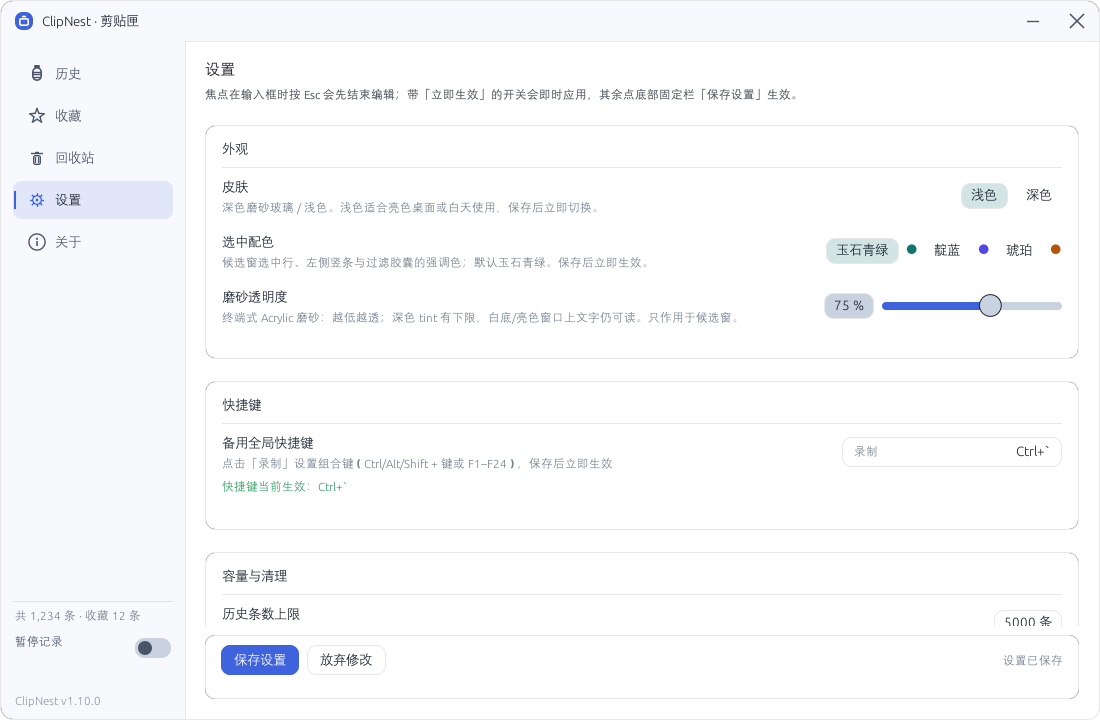
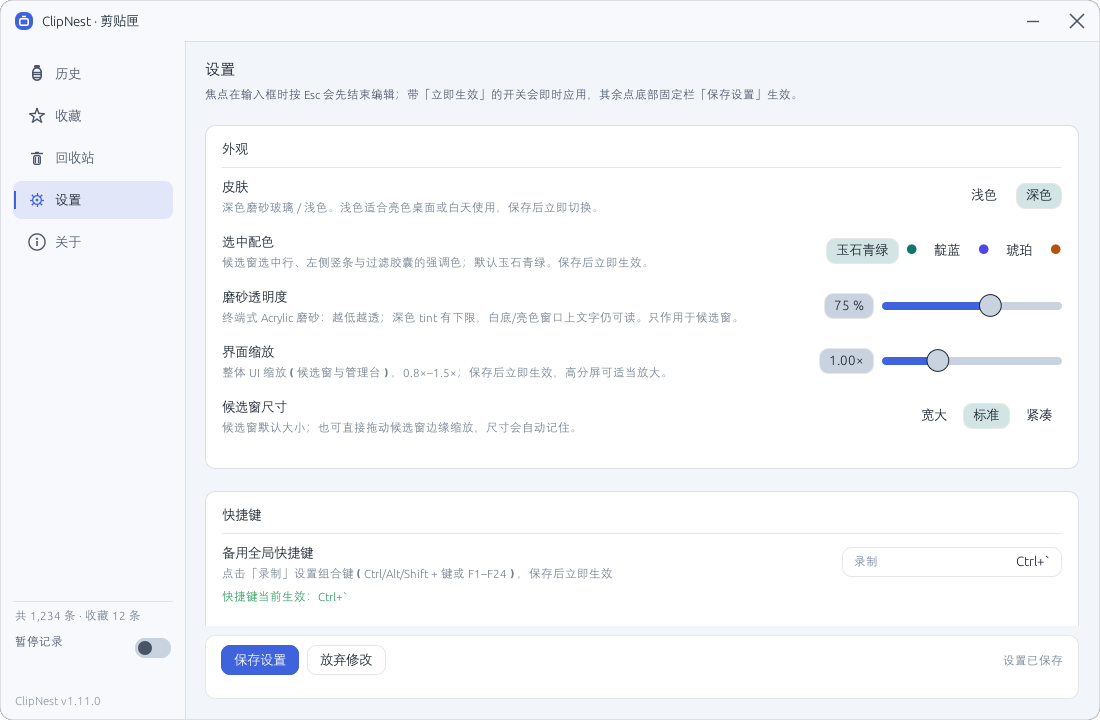
release: v1.11.0 第二批体验效率（富文本/搜索/排序/文件操作/时间语义/缩放）

diff --git a/README.md b/README.md
@@ -51,10 +51,12 @@ ClipNest 的目标是**低占用、键盘优先、视觉克制**：
 
 ## 功能
 
-- **采集**：监听系统剪贴板（Ctrl+C / 右键复制 / 截图工具），自动去重、最近置顶，记录来源应用。
-- **候选窗**：全局快捷键呼出；输入即搜（FTS5 trigram，中文子串友好，**命中关键字标红**）；`↑↓` 选择、`Enter` 粘贴、`Ctrl+Enter` 仅复制、`Ctrl+1…9` 快选、`Ctrl+F` 随时聚焦搜索框、`Tab` / `←→` 切过滤（收藏 → 全部 → 文本 → 图片 → 文件，默认全部）、`Ctrl+P` 收藏、`Delete` 移入回收站、`Esc` 关闭。
+- **采集**：监听系统剪贴板（Ctrl+C / 右键复制 / 截图工具），自动去重、最近置顶，记录来源应用；同时保留**富文本 HTML/RTF**，粘贴到 Word/浏览器/邮件时尽量保留链接、加粗、表格等格式，失败自动降级纯文本。
+- **候选窗**：全局快捷键呼出；输入即搜（FTS5 trigram，中文子串友好，**命中关键字标红**）；支持**多关键词**（任一 / 全部）、**来源应用筛选**与**排序**（最近/最早/最大/类型/使用最多）；`↑↓` 选择、`Enter` 粘贴、`Ctrl+Enter` 仅复制、`Ctrl+1…9` 快选、`Ctrl+F` 随时聚焦搜索框、`Tab` / `←→` 切过滤（收藏 → 全部 → 文本 → 图片 → 文件，默认全部）、`Ctrl+P` 收藏、`Delete` 移入回收站、`Esc` 关闭。
 - **自动粘贴**：先恢复呼出前的前台窗口，再模拟 Ctrl+V（可选 Shift+Insert）；目标窗口提权等情况自动降级为"已复制，请手动粘贴"。
-- **管理台**：历史（搜索/分页/详情/多选/批量删除/**导出（另存为）**）、收藏、**回收站**、设置、关于。
+- **管理台**：历史（搜索/排序/分页/详情/多选/批量删除/**导出（另存为）**）、收藏、**回收站**（虚拟化列表，支持翻页）、设置、关于。
+- **文件/图片操作**：文件条目右键可「打开文件 / 所在文件夹 / 复制路径」；图片可「另存为 PNG」，文本可「另存为 TXT」；候选窗与管理台详情均可用。
+- **时间语义与缩放**：时间筛选可切换「最近使用 / 复制时间」；日历支持按年跳转；候选窗可拖拽改变尺寸并记住；设置 → 外观提供 0.8–1.5 倍界面缩放与紧凑/标准/宽大预设。
 - **完整备份 / 恢复**：设置 → 数据 → 「完整备份…」生成单个 `.cnbak` 文件，内含数据库快照、图片/缩略图、收藏文件副本与 manifest 校验和；「从备份恢复…」先预览内容与校验结果，再按内容 hash 合并导入，失败回滚且不会破坏现有数据。换机或迁移请使用完整备份；导出 JSON 仅含文本与元数据。
 - **清空与退出清理**：清空历史默认只清未收藏，勾选「同时清空收藏」需输入确认词；设置 → 数据可选退出时「不清理 / 清空未收藏 / 全部清空」，仅明确退出 ClipNest 时执行，关闭面板或隐藏到托盘不触发。含收藏的清理使用 `secure_delete` + `VACUUM`，降低已删数据在数据库文件中的残留。
 - **隐私默认值**：新装默认忽略 1Password、Bitwarden、KeePass、KeePassXC、LastPass、Dashlane、Enpass、Keeper、RoboForm 等常见密码管理器进程；条目右键/详情可「忽略来源应用」并立即生效；支持临时暂停 15 分钟 / 1 小时 / 直到重启，到期自动恢复。
@@ -237,13 +239,15 @@ clipnest.exe（单进程常驻）
 
 - 仅支持 Windows（10 1809+ / 11），暂不做跨平台；
 - 单进程常驻内存约 57MB Private（v1.2 按用户要求不再做低内存拆分）；
-- 富文本（HTML/RTF）暂不保留格式，只按纯文本处理；
+- 富文本保留 HTML/RTF 常见格式（链接、加粗、表格等），复杂 CSS/脚本/外部资源会被过滤或降级；不做富文本渲染预览；
+- 多文件条目右键/详情操作只作用于第一个文件，暂未做逐文件菜单；
 - 图片/文件在 **完整备份（.cnbak）** 中会内嵌；**导出 JSON** 仍只含文本与元数据，不含二进制；
 - v1.2 起不接管 `Win+V`，系统剪贴板历史保持 Windows 原生行为；
 - 以管理员权限运行的窗口会被 UIPI 拦截模拟按键，此时保留剪贴板内容供手动粘贴。
 
 ## 更新记录
 
+- **v1.11.0**：第二批「体验效率」更新。新增**富文本 HTML/RTF 采集与回写**（浏览器/Word/Excel 复制尽量保留链接、加粗、表格，失败降级纯文本）；搜索支持**多关键词（任一/全部）与来源应用筛选**，可保留上次搜索；新增**排序**（最近/最早/最大/类型/使用最多）；候选窗与管理台新增**文件打开/所在文件夹/复制路径、图片另存为 PNG、文本另存为 TXT**；时间筛选支持**最近使用/复制时间**切换，日历支持按年跳转；候选窗可拖拽缩放并记住尺寸，外观新增 **0.8–1.5 倍界面缩放**；回收站改为虚拟化列表并支持翻页；修复中文输入法组词时按 Esc 误关候选窗。
 - **v1.10.0**：第一批「数据安全」更新。新增单文件**完整备份/恢复**（`.cnbak`，含数据库、图片/缩略图、收藏文件副本与 manifest 校验，恢复前预览、合并导入、失败回滚）；清空历史默认只清未收藏，含收藏需输入确认词，并支持退出时三档自动清理（安全删除）；新装默认忽略 9 个常见密码管理器，条目右键/详情可一键忽略来源应用，支持 15 分钟/1 小时/直到重启的临时暂停；收藏文件副本增加异步状态（保存中/已保存/失败/超限/原文件缺失）与重试；首次启动增加欢迎提示，二次启动提示已有实例并尝试唤起。
 - **v1.9.18**：发布版改为**静态链接 MSVC 运行库**（`target-feature=+crt-static`），单个 `clipnest.exe` 不再依赖 `VCRUNTIME140.dll`，其他 Windows 10/11 x64 电脑复制过去双击即可启动，无需安装 VC++ 运行库。
 - **v1.9.17**：候选窗新增 `Ctrl+F` 聚焦搜索框，搜索框失去焦点后也能一键回到输入；输入框右侧常驻显示 `Ctrl+F` 键帽提示（有内容时显示清除按钮）。

diff --git a/docs/ACCEPTANCE-RESULT.md b/docs/ACCEPTANCE-RESULT.md
@@ -812,3 +812,22 @@
 - `cargo check --all-targets`：零错误。
 - 合并冲突处理：`src/store.rs` 导入、`src/ui.rs` 恢复预览/清空确认/忽略应用、`src/ui/pages/settings.rs` 数据区重复块均已人工核对。
 - 说明：完整备份/恢复与退出清理以单元测试和 Store 线程测试覆盖；原生文件对话框与首次启动提示需实际运行验证。
+## 38. v1.11.0（2026-11-05，第二批体验效率：富文本/搜索/排序/文件操作）
+
+### 用户需求
+- 第二批 B1–B5：富文本保真、搜索升级、排序与批量清理、文件/图片操作、时间语义与可访问性。
+- 约束：B6 可选数据库加密涉及密码学与迁移风险，单独评估，不阻塞本版。
+
+### 实现
+- **B1 富文本**：SQLite schema v4，`clips` 增加 `html` / `rtf` 两列，读取/写入/粘贴/导出全链路带上；新增 `src/clipboard/html.rs` 解析 CF_HTML、生成 CF_HTML、清洗危险标签与外部资源、HTML→纯文本、RTF 基本过滤。写入时优先同时写 `CF_UNICODETEXT` + `CF_HTML` + `RTF`，目标程序不支持时降级纯文本。详情面板显示 HTML/RTF 徽标。
+- **B2 搜索**：搜索词按空白拆成多个关键词（双引号短语不拆），支持「任一 / 全部」；新增来源应用筛选与 `ListSourceApps`；设置项 `keep_search_on_open` 可保留上次搜索。FTS5 多词 MATCH，短词/路径走逐词 LIKE。
+- **B3 排序与回收站**：新增「最近 / 最早 / 最大 / 类型 / 使用最多」排序并贯通 picker 与管理台；收藏页置顶优先于排序；回收站改为 `ScrollArea::show_rows` 虚拟化并触底分页，修复只能看到前 500 条；支持全选当前已加载结果。
+- **B4 文件/图片操作**：新增 `src/sys/shell.rs`（ShellExecuteW / explorer /select / 复制路径）；文件条目支持打开、所在文件夹、复制路径；图片另存为 PNG、文本另存为 TXT，走系统另存为对话框；候选窗右键、管理台表格右键与详情面板均接入。
+- **B5 时间语义 / 缩放 / 可访问性**：`TimeBasis{LastUsed, Captured}` 贯通设置、查询与 UI；日历头部支持 `‹‹ / ››` 按年跳转；候选窗可拖拽缩放并写回 `picker_size`；新增 `ui_scale` 0.8–1.5 与紧凑/标准/宽大预设；组词中按 Esc 不再关闭候选窗。
+- 集成：从 `release/v1.10` 建 `release/v1.11`，依次合并 B1、B2+B3、B4+B5；冲突涉及 model/store/ui/picker/history/settings/tests，逐块人工合并（保留各批功能与测试，补齐 SearchQuery 新字段、PastePayload html/rtf、忽略来源与文件动作并存）。
+
+### 校验
+- `cargo test --release`：**227 passed / 0 failed / 1 ignored**（B1 后 203、B2+B3 后 215、B4+B5 后 227）。
+- `cargo check --all-targets`：零错误。
+- 已知限制：多文件条目仅对第一个文件提供打开/定位/复制路径；另存为依赖图片/文本 blob，blob 被清理时提示内容不存在；`ui_scale` 只缩放 egui 内容、不改变原生窗口尺寸；复杂 CSS/脚本不保留。
+- B6（可选数据库加密）本版未实现，留待单独评估密码解锁、备份/导入与搜索兼容性。
